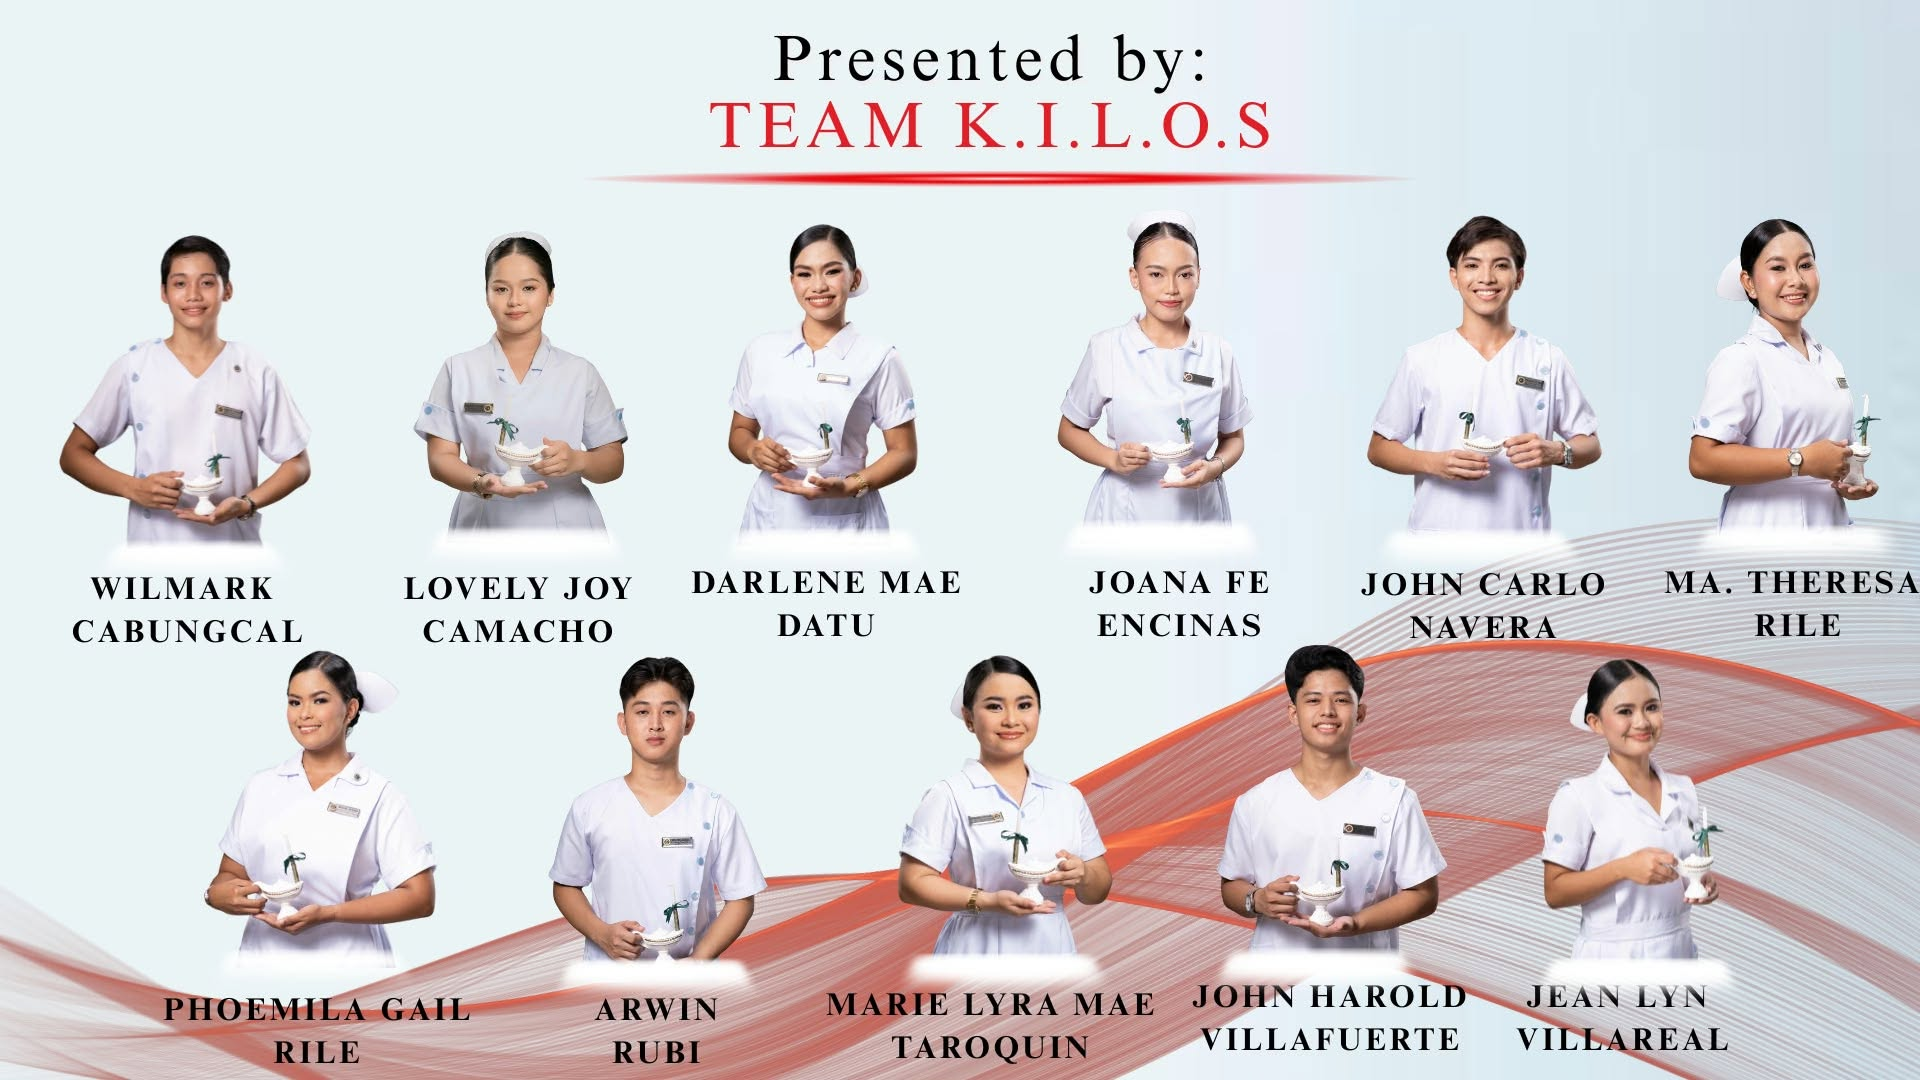
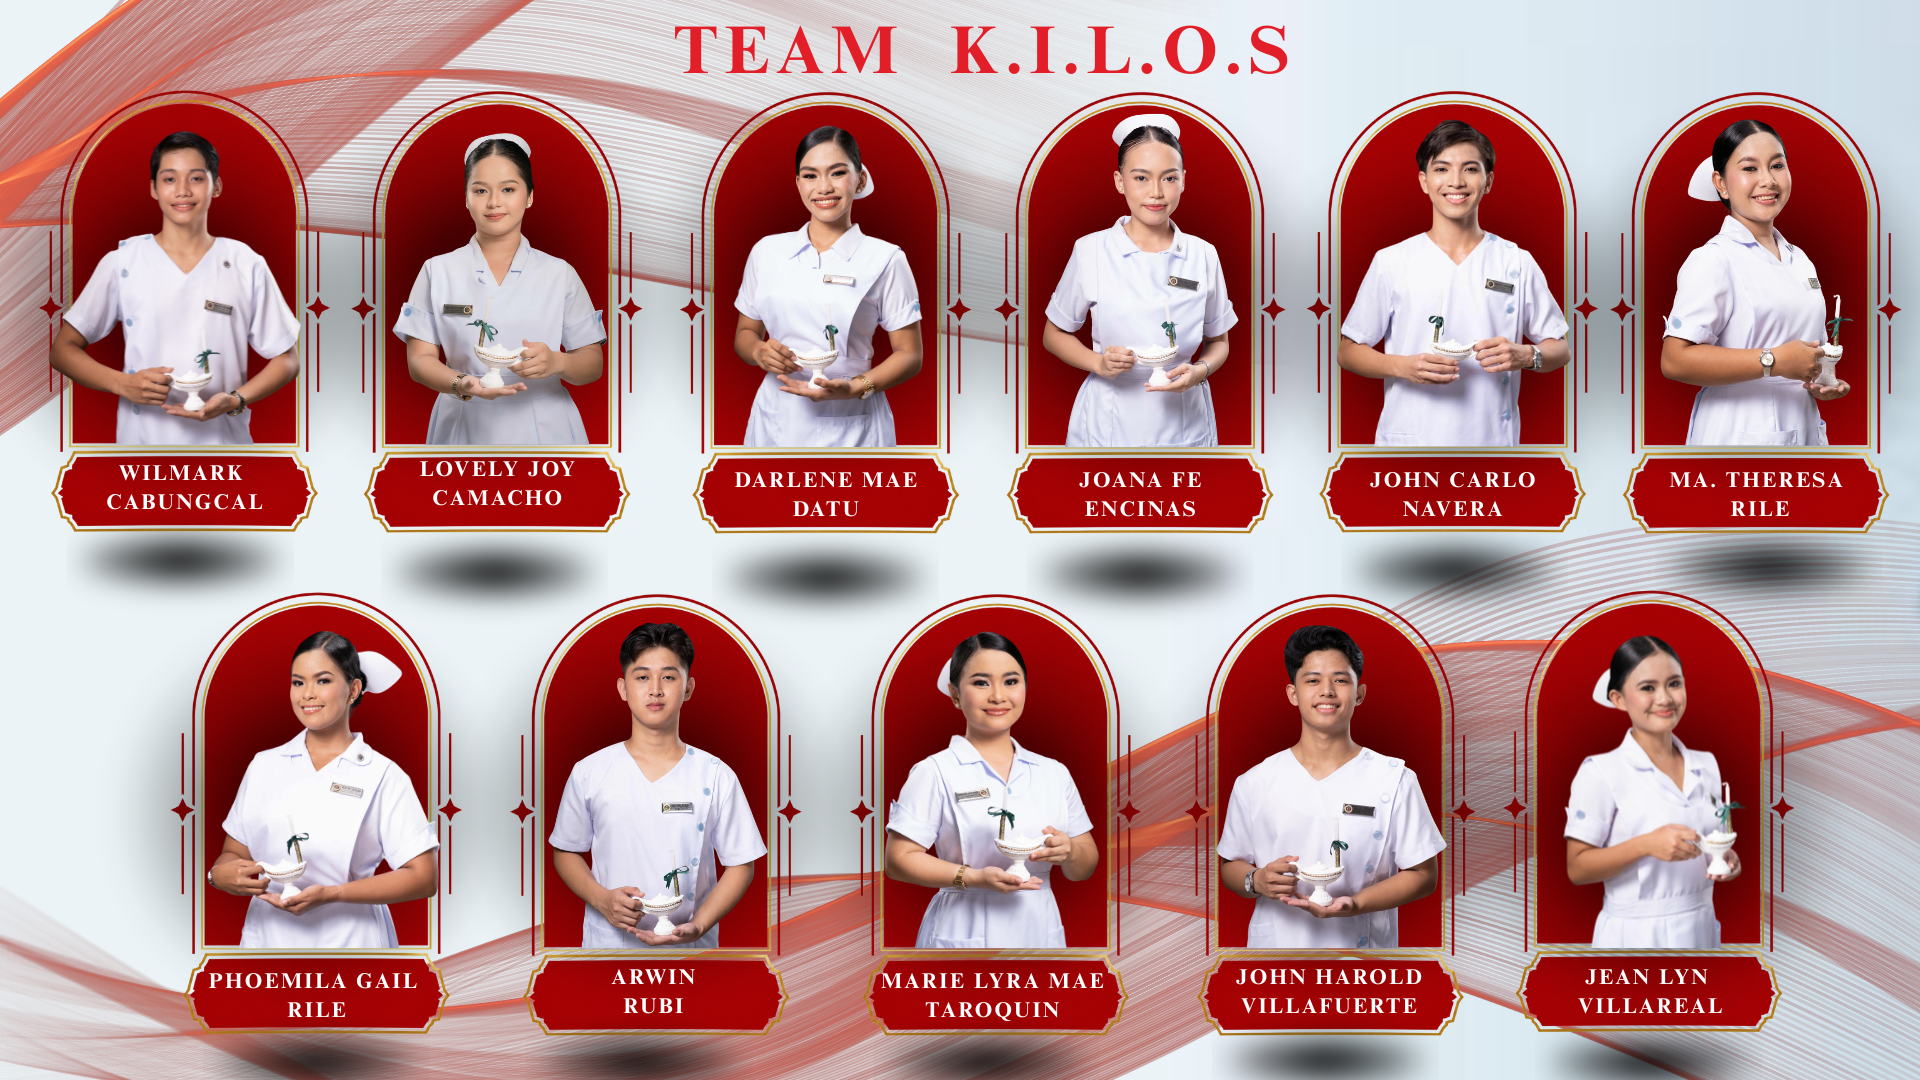
d

diff --git a/index.html b/index.html
@@ -152,4 +152,4 @@
 </div>
 
 </body>
-</html>
+</html>>
